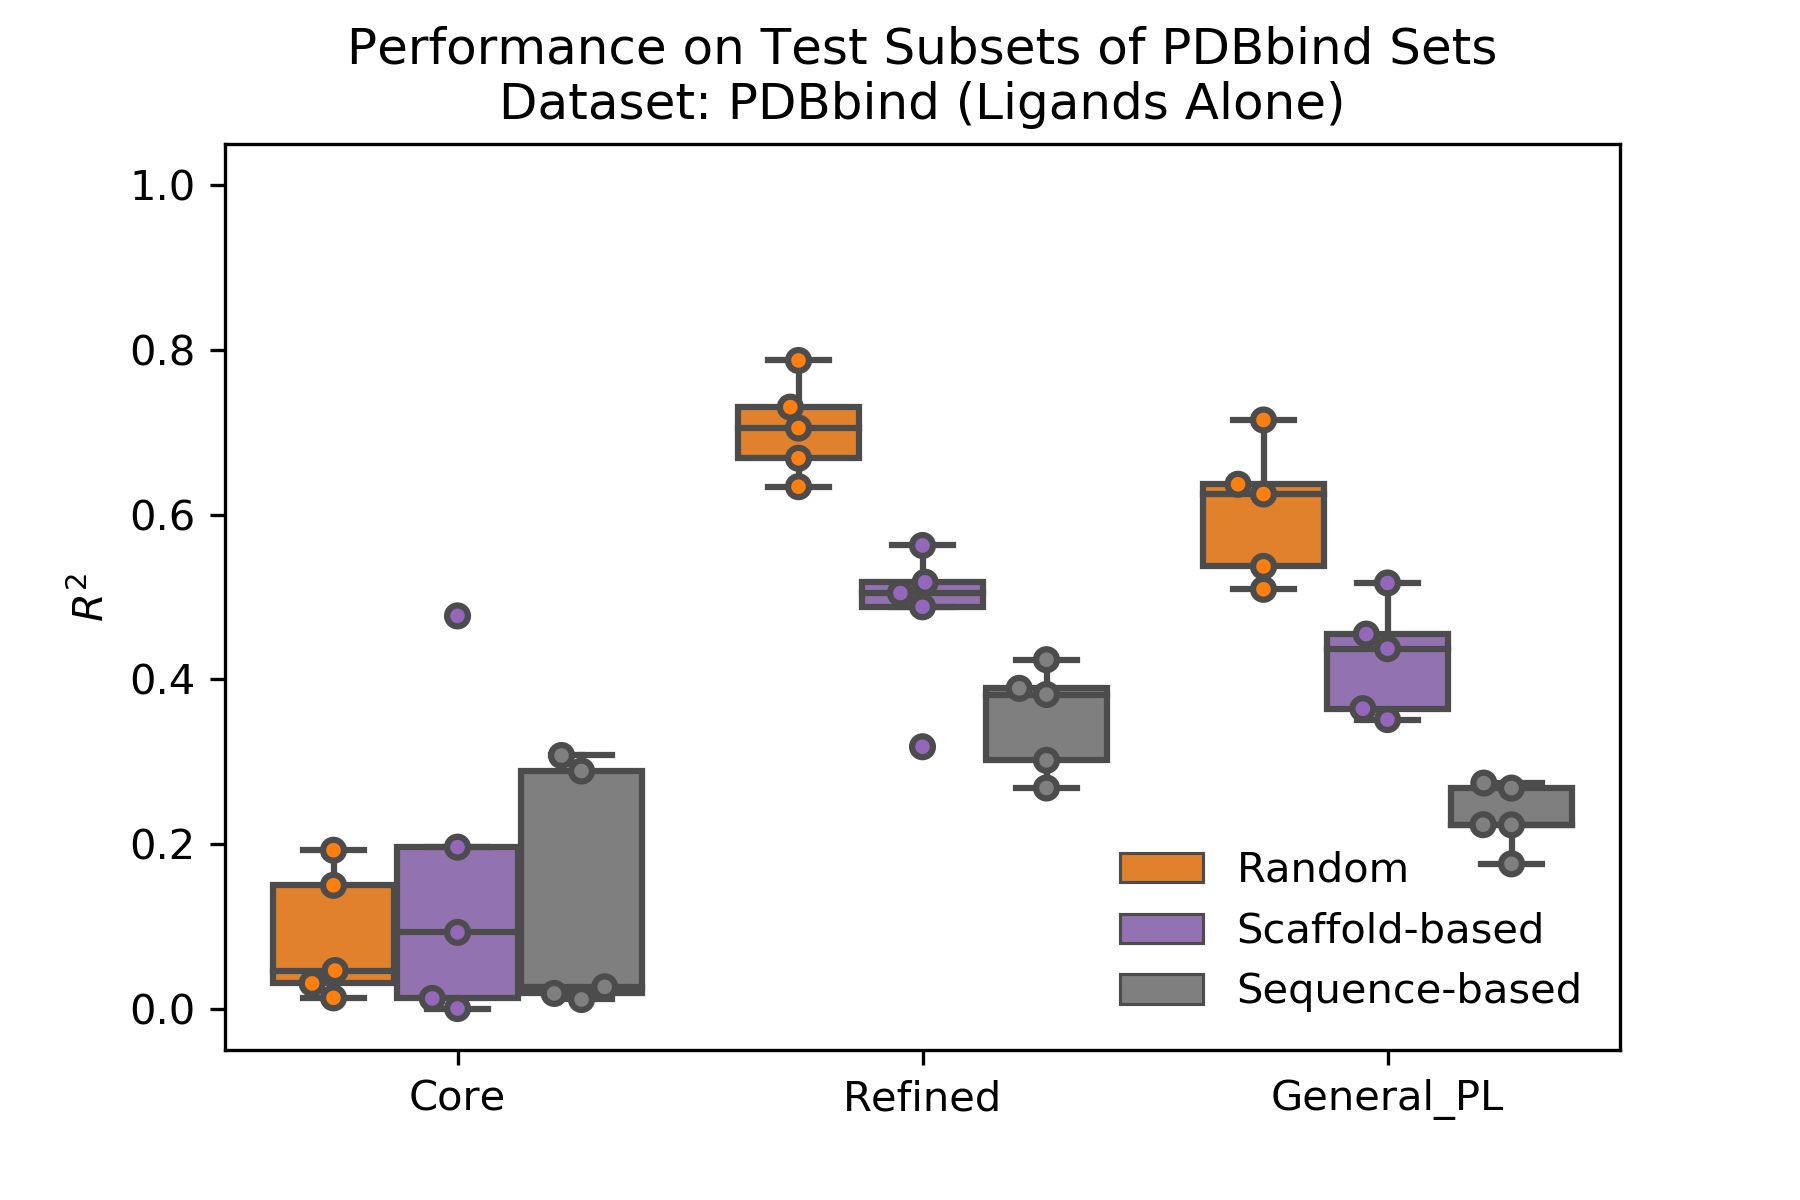
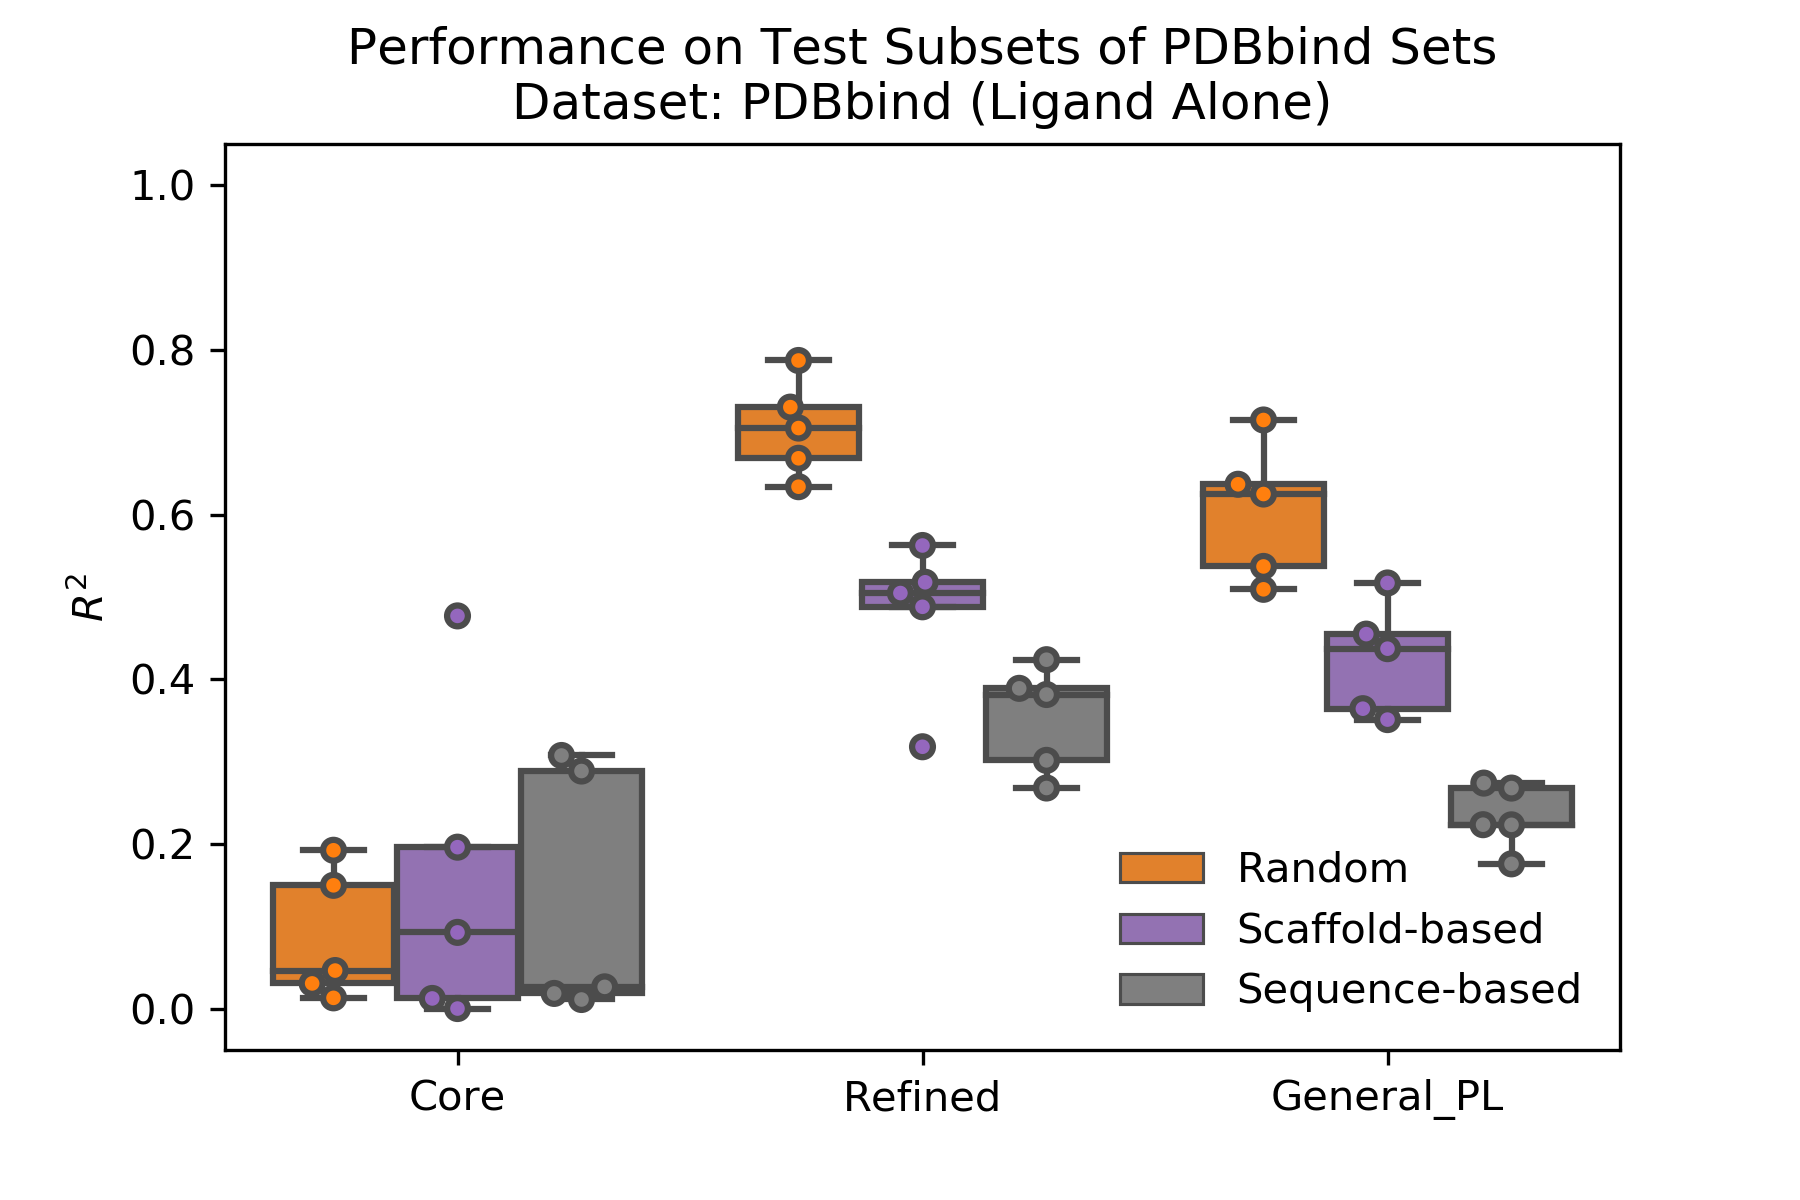
use 'ligand alone' instead of 'ligands alone'

Changed region(s): [[0.28, 0.0617, 0.7467, 0.1233]]

diff --git a/pdbbind/self.figures/box.py b/pdbbind/self.figures/box.py
@@ -21,7 +21,7 @@ df.tail()
 
 #%%
 components = ['binding', 'ligand', 'protein']
-cpn_names = ['Binding Complexes', 'Ligands Alone', 'Proteins Alone']
+cpn_names = ['Binding Complex', 'Ligand Alone', 'Protein Alone']
 subsets = ['core', 'refined', 'general_PL']
 subset_names = ['Core', 'Refined', 'General_PL']
 # splits = ['random', 'fingerprint', 'sequence']

diff --git a/pdbbind/pred_core.figures/box.py b/pdbbind/pred_core.figures/box.py
@@ -20,7 +20,7 @@ df.tail()
 
 #%%
 components = ['binding', 'ligand', 'protein']
-cpn_names = ['Binding Complexes', 'Ligands Alone', 'Proteins Alone']
+cpn_names = ['Binding Complex', 'Ligand Alone', 'Protein Alone']
 subsets = ['refined', 'general_PL']
 subset_names = ['Refined', 'General_PL']
 
